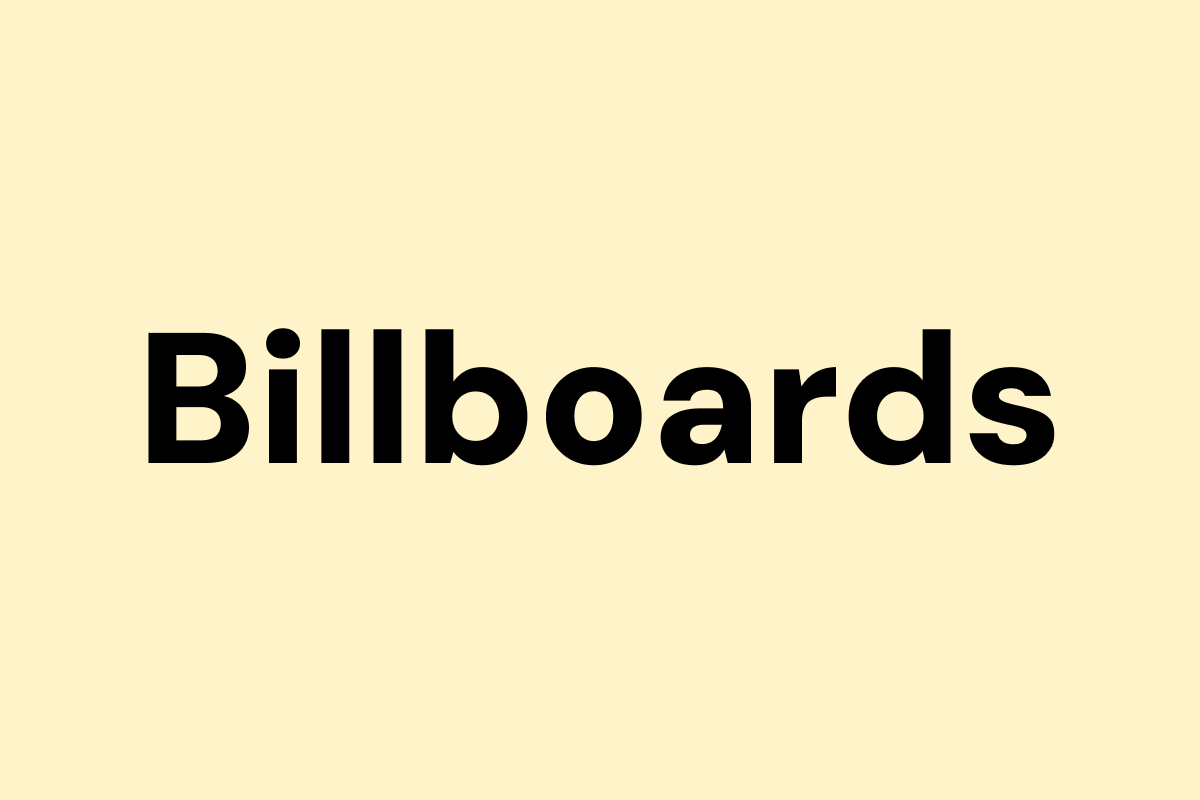
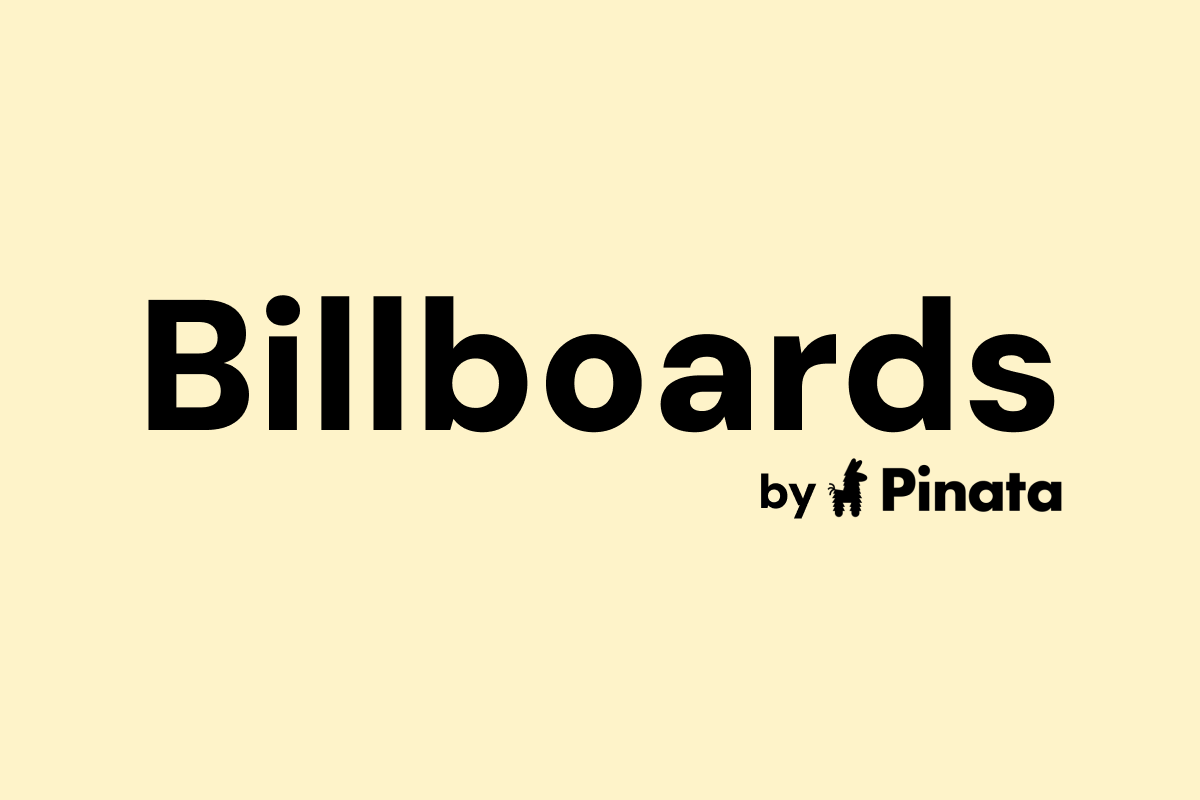
chore: Added branding

Changed region(s): [[0.1233, 0.3438, 0.8942, 0.6562]]

diff --git a/src/components/dashboard.tsx b/src/components/dashboard.tsx
@@ -16,6 +16,7 @@ import { Progress } from "@/components/ui/progress"
 import { nanoid } from "nanoid"
 import { BoardGrid } from "./board-grid"
 import { Link } from "react-router-dom"
+import { Link as FCLink } from "@mini_apps/utilities"
 import { X } from "lucide-react" // Import an icon for the remove button
 import { useAuth } from "@/hooks/useAuth"
 
@@ -29,7 +30,7 @@ type FileWithCaption = {
 };
 
 export function Dashboard() {
-  const { isAuthenticated, isAuthenticating, nonce, message, signature, fid, signIn, signOut } = useAuth();
+  const { isAuthenticated, isAuthenticating, nonce, message, signature, fid, signIn } = useAuth();
   const [open, setOpen] = useState(false)
   const [isSubmitting, setIsSubmitting] = useState(false)
   const [progress, setProgress] = useState(0)
@@ -182,8 +183,12 @@ export function Dashboard() {
       <div className="flex flex-col items-center justify-center min-h-[70vh] w-full">
         <div className="bg-white p-8 rounded-lg shadow-shadowFull max-w-sm w-full text-center">
           <Link to="/">
-            <h1 className='font-black text-4xl pb-6 text-center'>Billboards</h1>
+            <h1 className='font-black text-4xl text-center'>Billboards</h1>
           </Link>
+          <FCLink href="https://pinata.cloud" className="flex flex-row gap-2 items-center w-full justify-center pb-2">
+            by
+            <img src="/pinata.png" alt="pinata-logo" className="max-h-12" />
+          </FCLink>
           <p className="mb-6 text-gray-600">Sign in with your Farcaster account to view and create boards</p>
           <Button
             onClick={signIn}
@@ -208,13 +213,16 @@ export function Dashboard() {
       }}>
         <div className='w-full bg-white flex flex-col items-center py-4 shadow-shadowFull'>
           <Link to="/">
-            <h1 className='font-black text-4xl pb-4 text-center py-2'>Billboards</h1>
+            <h1 className='font-black text-4xl text-center'>Billboards</h1>
           </Link>
+          <FCLink href="https://pinata.cloud" className="flex flex-row gap-2 items-center w-full justify-center pb-2">
+            by
+            <img src="/pinata.png" alt="pinata-logo" className="max-h-12" />
+          </FCLink>
           <div className="flex items-center gap-4 max-w-[300px] w-full">
             <DialogTrigger asChild className="flex-1">
               <Button>Create</Button>
             </DialogTrigger>
-            <Button variant="neutral" onClick={signOut}>Sign Out</Button>
           </div>
         </div>
         <DialogContent className="sm:max-w-[500px] min-h-[600px]">
